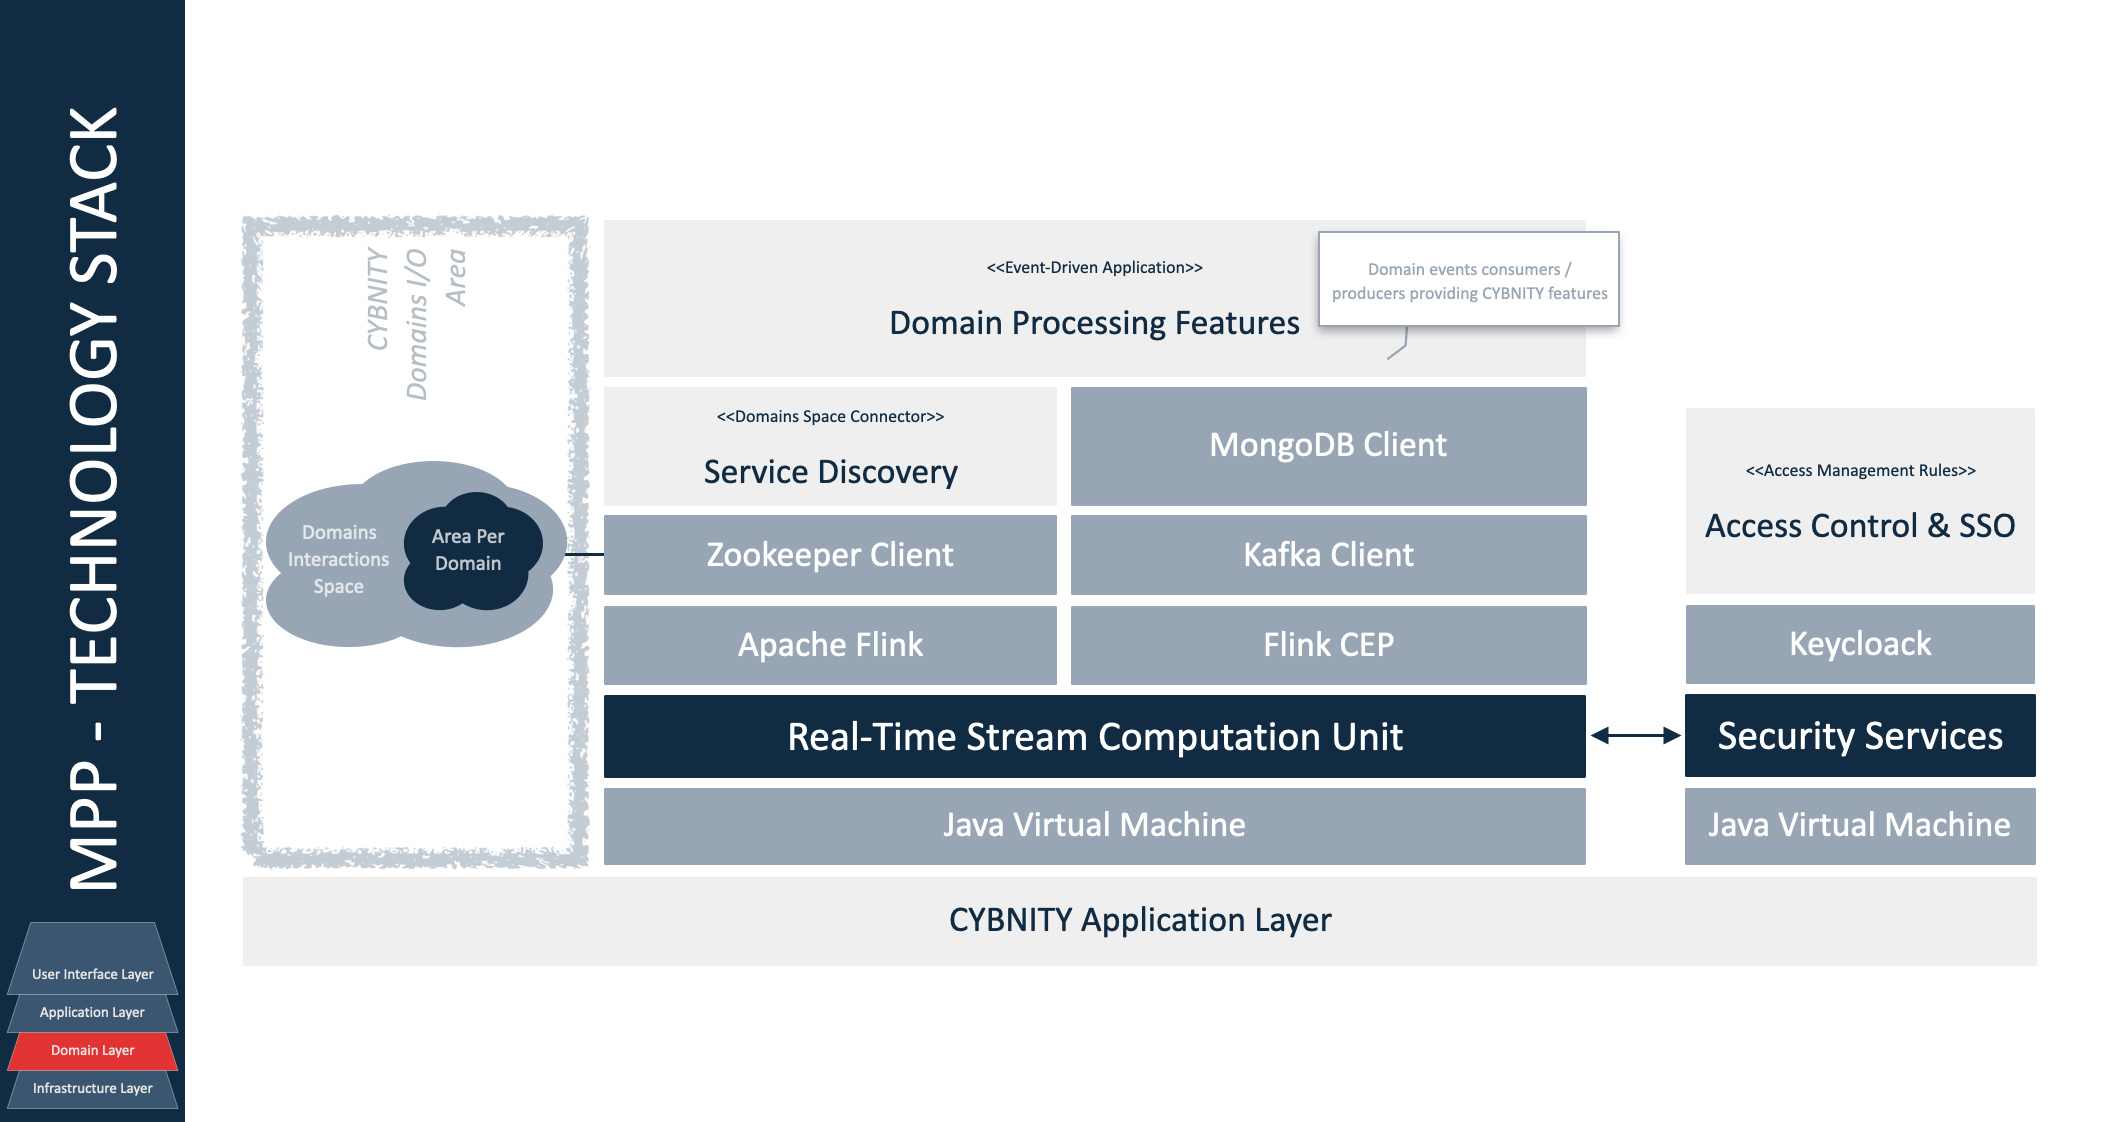
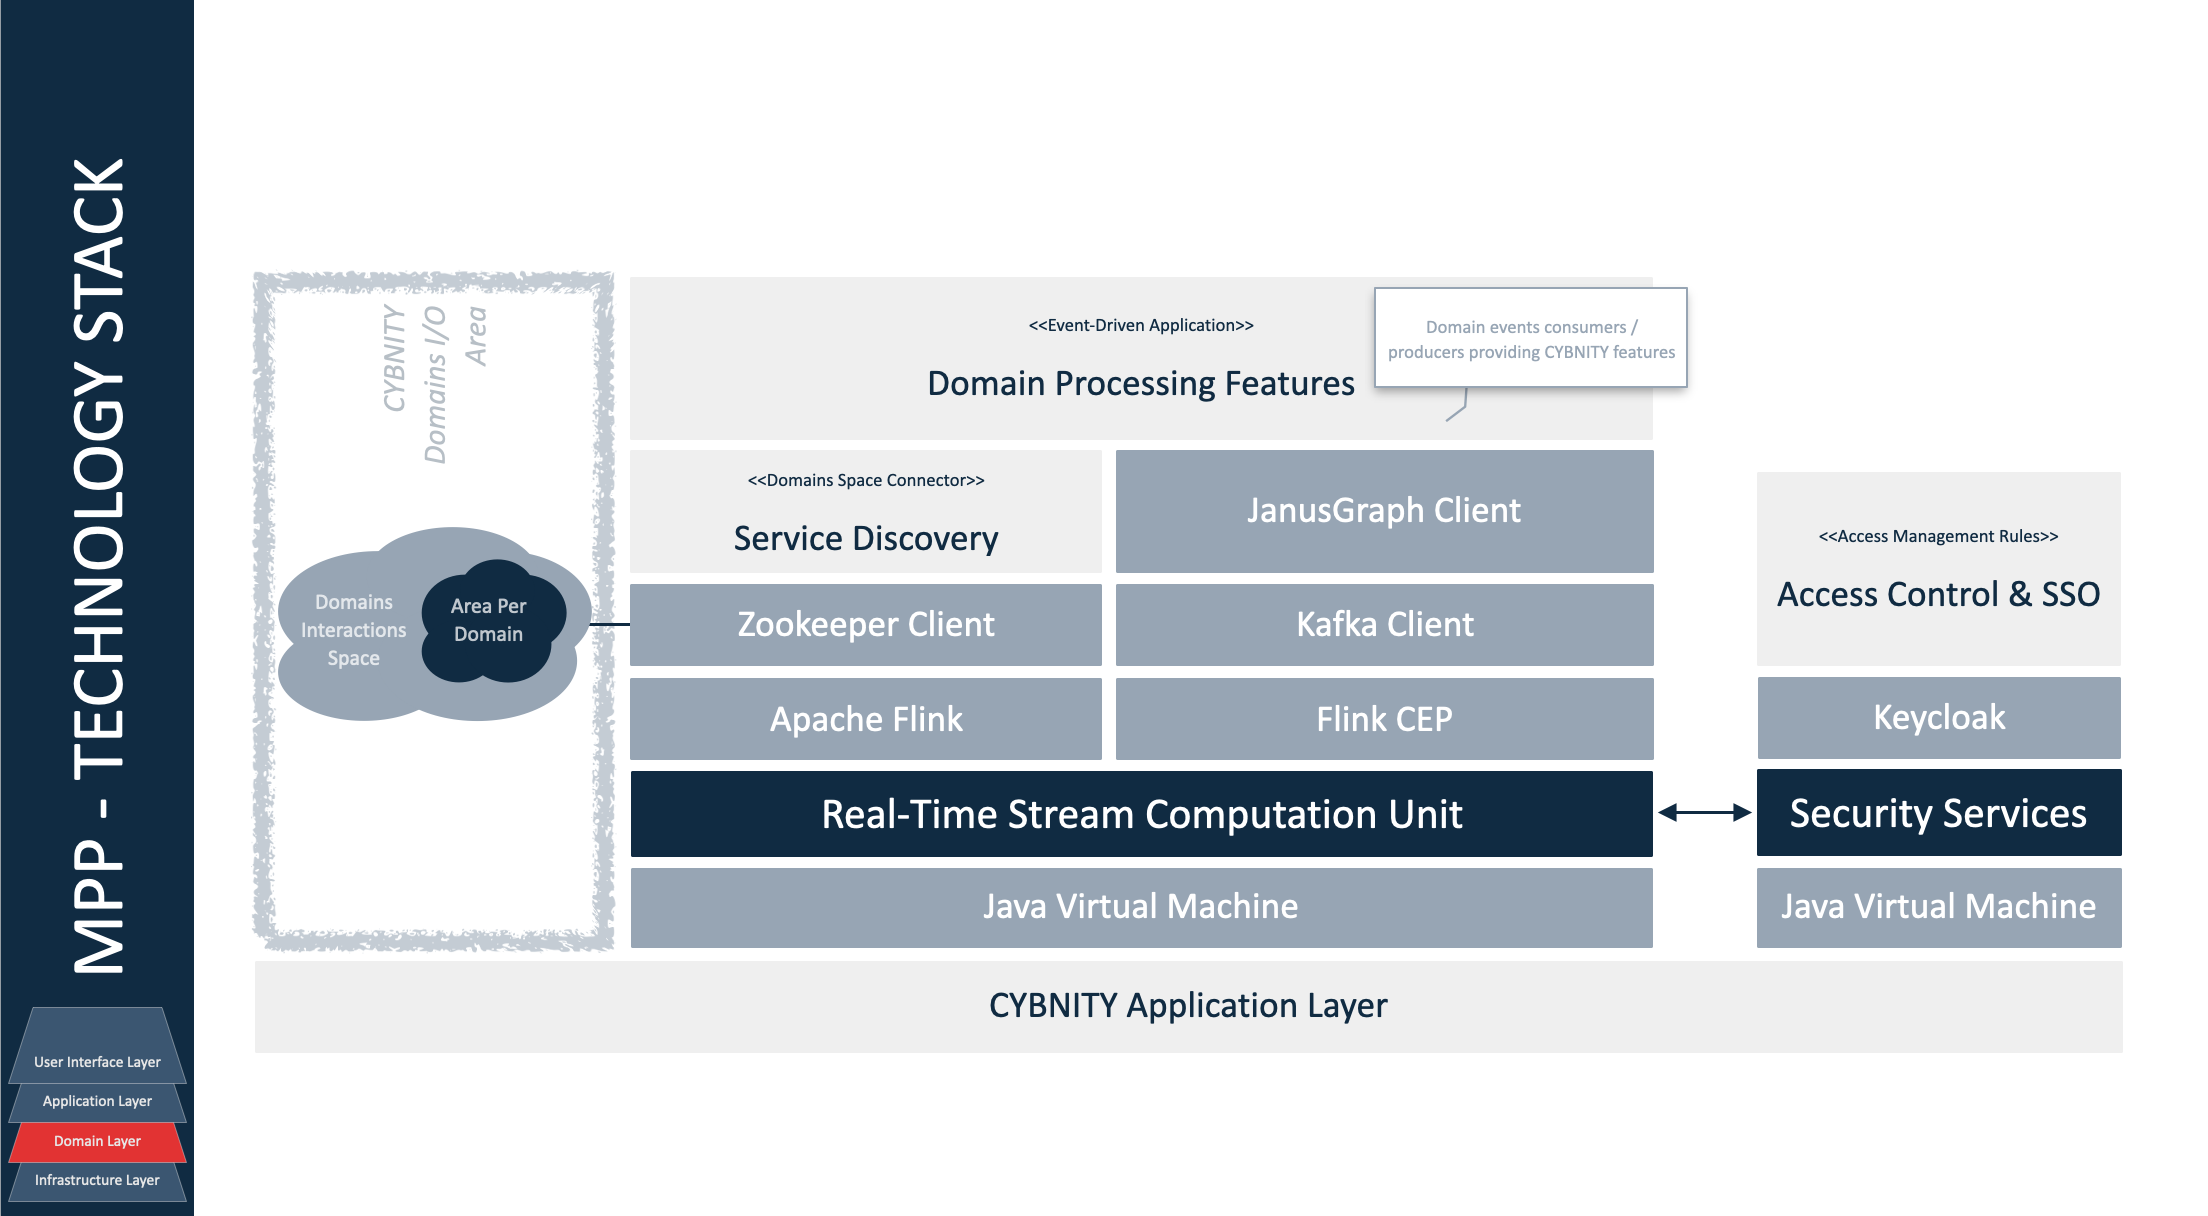
Introduction of JanusGraph database and versions management

diff --git a/demonstrators-line/demonstrator-v0/technologies-stack-analysis.md b/demonstrators-line/demonstrator-v0/technologies-stack-analysis.md
@@ -85,7 +85,8 @@ Presentation of the retained implementation stack resulting of the analysis step
 |Keycloak|Web|Local, Dev, Test, Staging, Production|Application/Integration Infrastructure|version >= 18.0.2|
 |PostgreSQL|Web, Centralized Storage|Local, Dev, Test, Staging, Production|Persistence Infrastructure|version >= 14.0.5|
 |Redis|Web, Middlewares|Local, Dev, Test, Staging, Production|Integration/Persistence Infrastructure|version >= 7.0.4|
-|ArangoDB|Web, Centralized Storage|Local, Dev, Test, Staging, Production|Persistent Infrastructure|version >= 7.6.0|
+|JanusGraph|Web, Centralized Storage|Local, Dev, Test, Staging, Production|Persistent Infrastructure|version >= 1.0.0|
+|Cassandra|Web, Centralized Storage|Local, Dev, Test, Staging, Production|Persistent Infrastructure|version >= 4.1.4|
 |Eclipse Temurin JDK/JRE|Web, Monitoring, Centralized Storage, Middlewares|Local, Dev, Test, Staging, Production|Operating Infrastructure|version >= 11.0.15|
 |Maven|Tooling|Local, Dev, Test, Staging|Delivery Tool|version >= 3.8.5|
 |GitHub Actions|Tooling|Dev, Test, Staging|Delivery Tool| |
@@ -139,7 +140,8 @@ The current status of technology already in the analysis stream give a general v
 | INTEGRATION INFRASTRUCTURE | APIs Gateway & Management | Gravitee.io | `WIN` | | | HTTP Reverse Proxy, CYBNITY API access control, API documentation/management/analytics/administration/design for User Interface Layer access (e.g reverse proxy, load balancing, access policies) and external APIs connections management |
 | INTEGRATION INFRASTRUCTURE | Remote Services Integration | Resilience4J | `ALT WITHOUT SERVER-SIDE API GATEWAY` | | | Embedded library for integration with external APIs without APIs Gateway support (circuit breaker, rate limiting for executions/period, bulkhead for concurrent execution limitation, automatic retry of failed executions, timeout handling, successful result caching, fallback to result failures; add-on for Spring, Vert.x) |
 | INDEXING INFRASTRUCTURE | Contents Indexing & Search | Apache Solr | `ALT` | | | Lucene indexing and query of time series contents (e.g logs, backups), documents (e.g pdf) |
-| PERSISTENCE INFRASTRUCTURE | Domains data Management & Search | [ArangoDB](https://arangodb.com/) | `WIN` | | | Graph data platform as knowledge database for efficient query (read optimized) of application domains's data |
+| PERSISTENCE INFRASTRUCTURE | Knowledge Repository & Search | [JanusGraph](https://janusgraph.org/) | `WIN` | | | Graph data platform as application domain knowledge database for efficient query (read optimized) of application domains's data |
+| PERSISTENCE INFRASTRUCTURE | Domains data Management | [Cassandra](https://cassandra.apache.org/) | `WIN` | | | NoSQL distributed database as data storage system for support of domains data management |
 | PERSISTENCE INFRASTRUCTURE | Activity / Event Logs Store | [InfluxDB](https://www.influxdata.com/) | `WIN` | | | Time series data platform as NoSQL database for efficient storage (write optimized) of systems' metrics, traces, events, and logs |
 | PERSISTENCE INFRASTRUCTURE | Streams State Async Backup | MongoDB | `WIN` | | | Autonomous dynamic backup/recovery of distributed data, collection-oriented repository |
 | PERSISTENCE INFRASTRUCTURE | In-Memory Data Grid (Cluster Manager) | Infinispan | `ALT` | | | In-memory distributed data store storing, managing, and processing data; [Doc](https://infinispan.org/) |
@@ -220,6 +222,7 @@ The criteria checked about advantages (ADV) are:
 
 | CANDIDATE TECHNOLOGY | Description | Comments | ANALYSIS RESULT |
 | :--- | :--- | :--- | :--- |
+| Janus Graph |Distributed, open source and scalable graph database <br>**ADV01:** Apache 2.0 license<br>**ADV02:** Docker<br>**ADV03:** [JanusGraph framework online documentation](https://docs.janusgraph.org/); multiple datastorage solution supported like HBase, Cassandra, in-memory storage; indexing via ElasticSearch, Solr; version 1.0 [tested compatibility](https://github.com/JanusGraph/janusgraph/releases/tag/v1.0.0)| |`OK`|
 | Clair |Static analysis of Docker image contents for security vulnerability detection<br>**ADV01:** Apache 2 license<br>**ADV03:** [GitHub project](https://github.com/quay/clair)| | |
 | [Firewalld](https://firewalld.org/) |Dynamic managed firewall defining the trust level of network connections or interfaces<br>**ADV02:** [Concept documentation](https://firewalld.org/documentation/concepts.html); IPv4 and IPv6 settings supported; changes immediately applied in the runtime environment without need of service restart<br>**ADV03:** Firewall zones (predefined list, services, icmptypes); port forwarding, timed firewall rules in zones; [Kubernetes on Linux with Firewalld tutorial[(https://medium.com/platformer-blog/kubernetes-on-centos-7-with-firewalld-e7b53c1316af)]<br>**ADV04:** default firewall management tool of RHE, CentOS, Fedora, SUSE|**Disadvantage:** small and based on service daemon (full support in virtualized environment?); none information found on license model and sustainability by community|`KO`|
 | [Snort](https://snort.org/) |IPS real-time traffic analysis and packet logging which use a series of rules that help define malicious network activity and uses those rules to find packets that match against them and generates alerts<br>**ADV01:** open source<br>**ADV02:** Fedora/CentOS/FreeBSD supported OS|**Disadvantage:** requiring subscription for latest exploits updates (incompatible with CYBNITY fully free approach for open source and deployable stack)|`KO`|
@@ -321,6 +324,7 @@ The acceptance level per differentiation criteria is evaluated as:
 | Keycloak |OK| |OK| | | | |
 | PostgreSQL |OK| |OK| | | | |
 | Apache Solr | | | | | | | |
+| JanusGraph | | | | | | | |
 | MongoDB | | | | | | | |
 | Telegraf Agent | | | | | | | |
 | Grafana | | | | | | | |

diff --git a/demonstrators-line/demonstrator-v0/v0-technologies-stack.md b/demonstrators-line/demonstrator-v0/v0-technologies-stack.md
@@ -68,8 +68,8 @@ Should allow definition and test of basic software factory implementation allowi
 None supervision requirements required regarding the step of the CYBNITY Foundation project.
 
 # CURRENT MPP OFFICIAL VERSION
-- Version: 0.27.0
-- Released at: April, 24, 2024
+- Version: 0.28.0
+- Released at: May, 29, 2024
 - Status: `RELEASED`
 - Documentation: [technologies-stack-analysis](technologies-stack-analysis.md)
 - Deliverables:
@@ -80,7 +80,7 @@ None supervision requirements required regarding the step of the CYBNITY Foundat
     <parent>
       <groupId>org.cybnity</groupId>
       <artifactId>techstack</artifactId>
-      <version>0.27.0</version>
+      <version>0.28.0</version>
     </parent>
 
     <repositories>
@@ -171,13 +171,15 @@ Presentation of the technologies and frameworks used for implementation of the C
 | :--- | :--- | :--- | :--- | :--- |
 |Vert.x Redis Client|Interactions with Redis messaging system(s)|Extension connector with Redis broker(s)|Java, JSON|Vert.x Core|
 |Lettuce Redis Client|Interactions with Redis messaging system(s)|Client library for integration with Redis broker(s)|Java, JSON|JVM|
+|JanusGraph Client|Interactions with JanusGraph repository|Client library for integration with JanusGraph (Gremlin server)|Java|JVM|
 |Vert.x Kafka Client|Interactions with Kafka messaging system(s)|Client library for integration with Kafka broker(s)|Java, JSON|Vert.x Core|
 |Zookeeper Client|Interactions with Zookeeper directory|Client library for access to resources directory (e.g Kafka, Redis brokers)|Java|JVM|
 |Redis|Interactions between UI layer's service components|Broker of distributed events, persistence of shared data|Java, JSON|JVM|
-|ArangoDB|Application domain data management and query|Graph database|AQL, RocksDB, Javascript|Linux OS, Docker|
+|JanusGraph / Solr|Application domain data management and query|Graph database|Java 8/11|JVM, Linux OS, Docker|
 |Kafka|Interactions between application layer's service components|Broker of distributed events|Java, JSON|JVM|
 |Temurin JVM|Runtime of application service layers|Execution environment of Java components|Java|OS, Docker|
 |Zookeeper|Discovery and systems' access configurations management|Directory/broker of access informations to services components (e.g Kafka, Redis brokers)|Java|JVM|
+|Cassandra|Persistence of domain datas|NoSQL database|Cassandra Query Language (CQL)|Linux OS, Docker|
 |PostgreSQL|Persistence of SSO elements|Database of security elements regarding users' access controls|SQL|OS, Docker|
 |Linux Alpine|Operating System of application/infrastructure components|Linux based operating system|Linux Kernel|Docker|
 |Linux Debian|Operating System of application/infrastructure components|Linux based operating system|Linux Kernel|Docker|
